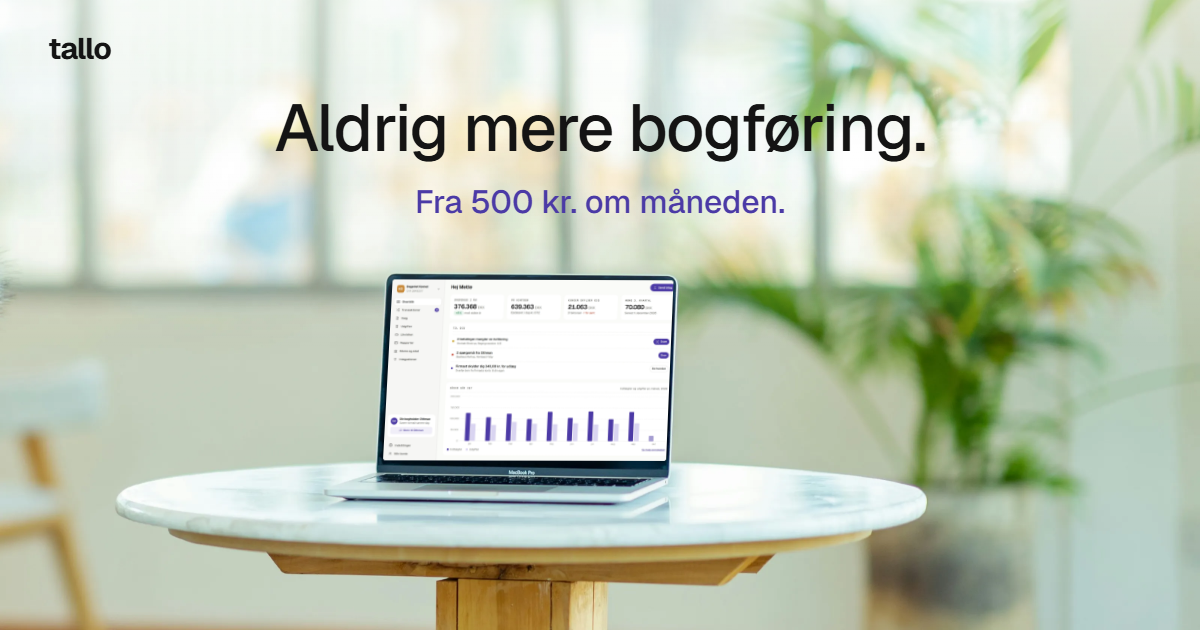
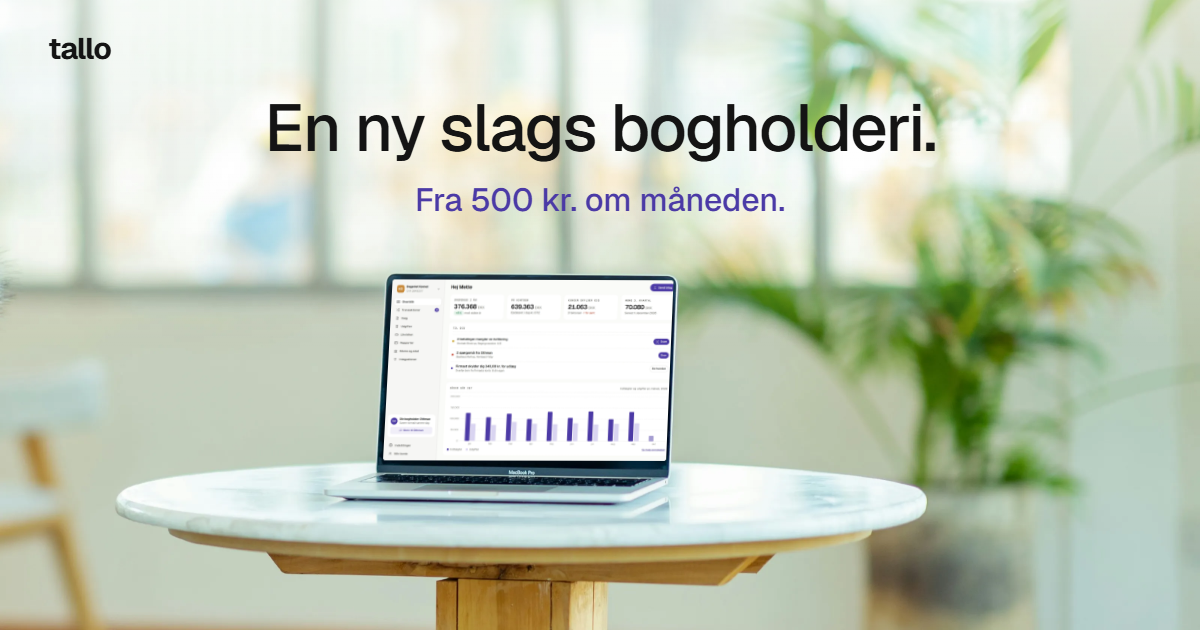
Ny overskrift: En ny slags bogholderi.

Changed region(s): [[0.2158, 0.1508, 0.8017, 0.2714], [0.3392, 0.3016, 0.6475, 0.3619]]

diff --git a/index.html b/index.html
@@ -7,11 +7,11 @@
 <meta http-equiv="Content-Security-Policy" content="default-src 'self'; script-src 'self' 'unsafe-inline' https://app.cal.com; style-src 'self' 'unsafe-inline'; img-src 'self' data: https://app.cal.com; font-src 'self'; connect-src 'self' https://nznqjlrknpbnfzizxnkr.supabase.co https://app.cal.com; frame-src https://app.cal.com https://cal.com; object-src 'none'; base-uri 'self'; form-action https://nznqjlrknpbnfzizxnkr.supabase.co mailto:">
 <meta name="referrer" content="strict-origin-when-cross-origin">
 <meta name="robots" content="noindex, nofollow">
-<title>Tallo: aldrig mere bogføring</title>
+<title>Tallo: en ny slags bogholderi</title>
 <meta name="description" content="Dine regninger og fakturaer kommer ind af sig selv. Vi bogfører dem for dig, eller du gør det selv med AI's hjælp. Fra 500 kr. om måneden.">
 <meta property="og:type" content="website">
 <meta property="og:url" content="https://tallo.dk/">
-<meta property="og:title" content="Tallo: aldrig mere bogføring">
+<meta property="og:title" content="Tallo: en ny slags bogholderi">
 <meta property="og:description" content="Dine regninger og fakturaer kommer ind af sig selv. Vi bogfører dem for dig, eller du gør det selv med AI's hjælp. Fra 500 kr. om måneden.">
 <meta property="og:image" content="https://tallo.dk/og.png">
 <meta property="og:image:width" content="1200">
@@ -263,7 +263,7 @@
         <div class="sloer" id="sloer"></div>
 
         <div class="top-tekst" id="tekst">
-          <h1>Aldrig mere bogføring.</h1>
+          <h1>En ny slags bogholderi.</h1>
           <p class="ingress">Dine regninger og fakturaer kommer ind af sig selv. Vi bogfører dem for dig, eller du gør det selv med AI's hjælp. Fra 500 kr. om måneden.</p>
           <div class="knapper">
             <a class="pille farve" href="#kom">Skriv dig op på 2 minutter</a>

diff --git a/vaerktoej/undersider.py b/vaerktoej/undersider.py
@@ -763,7 +763,7 @@ def erstat(s, navn, nyt):
 def forside():
     fil = ROD / "index.html"
     s = fil.read_text(encoding="utf-8")
-    s = erstat(s, "hoved", hoved("Tallo: aldrig mere bogføring",
+    s = erstat(s, "hoved", hoved("Tallo: en ny slags bogholderi",
                                  "Dine regninger og fakturaer kommer ind af sig selv. Vi bogfører dem for dig, eller du gør det selv med AI's hjælp. Fra 500 kr. om måneden.", "/"))
     s = erstat(s, "menu", menu("/"))
     s = erstat(s, "pakker", "  " + pakkeblok())
